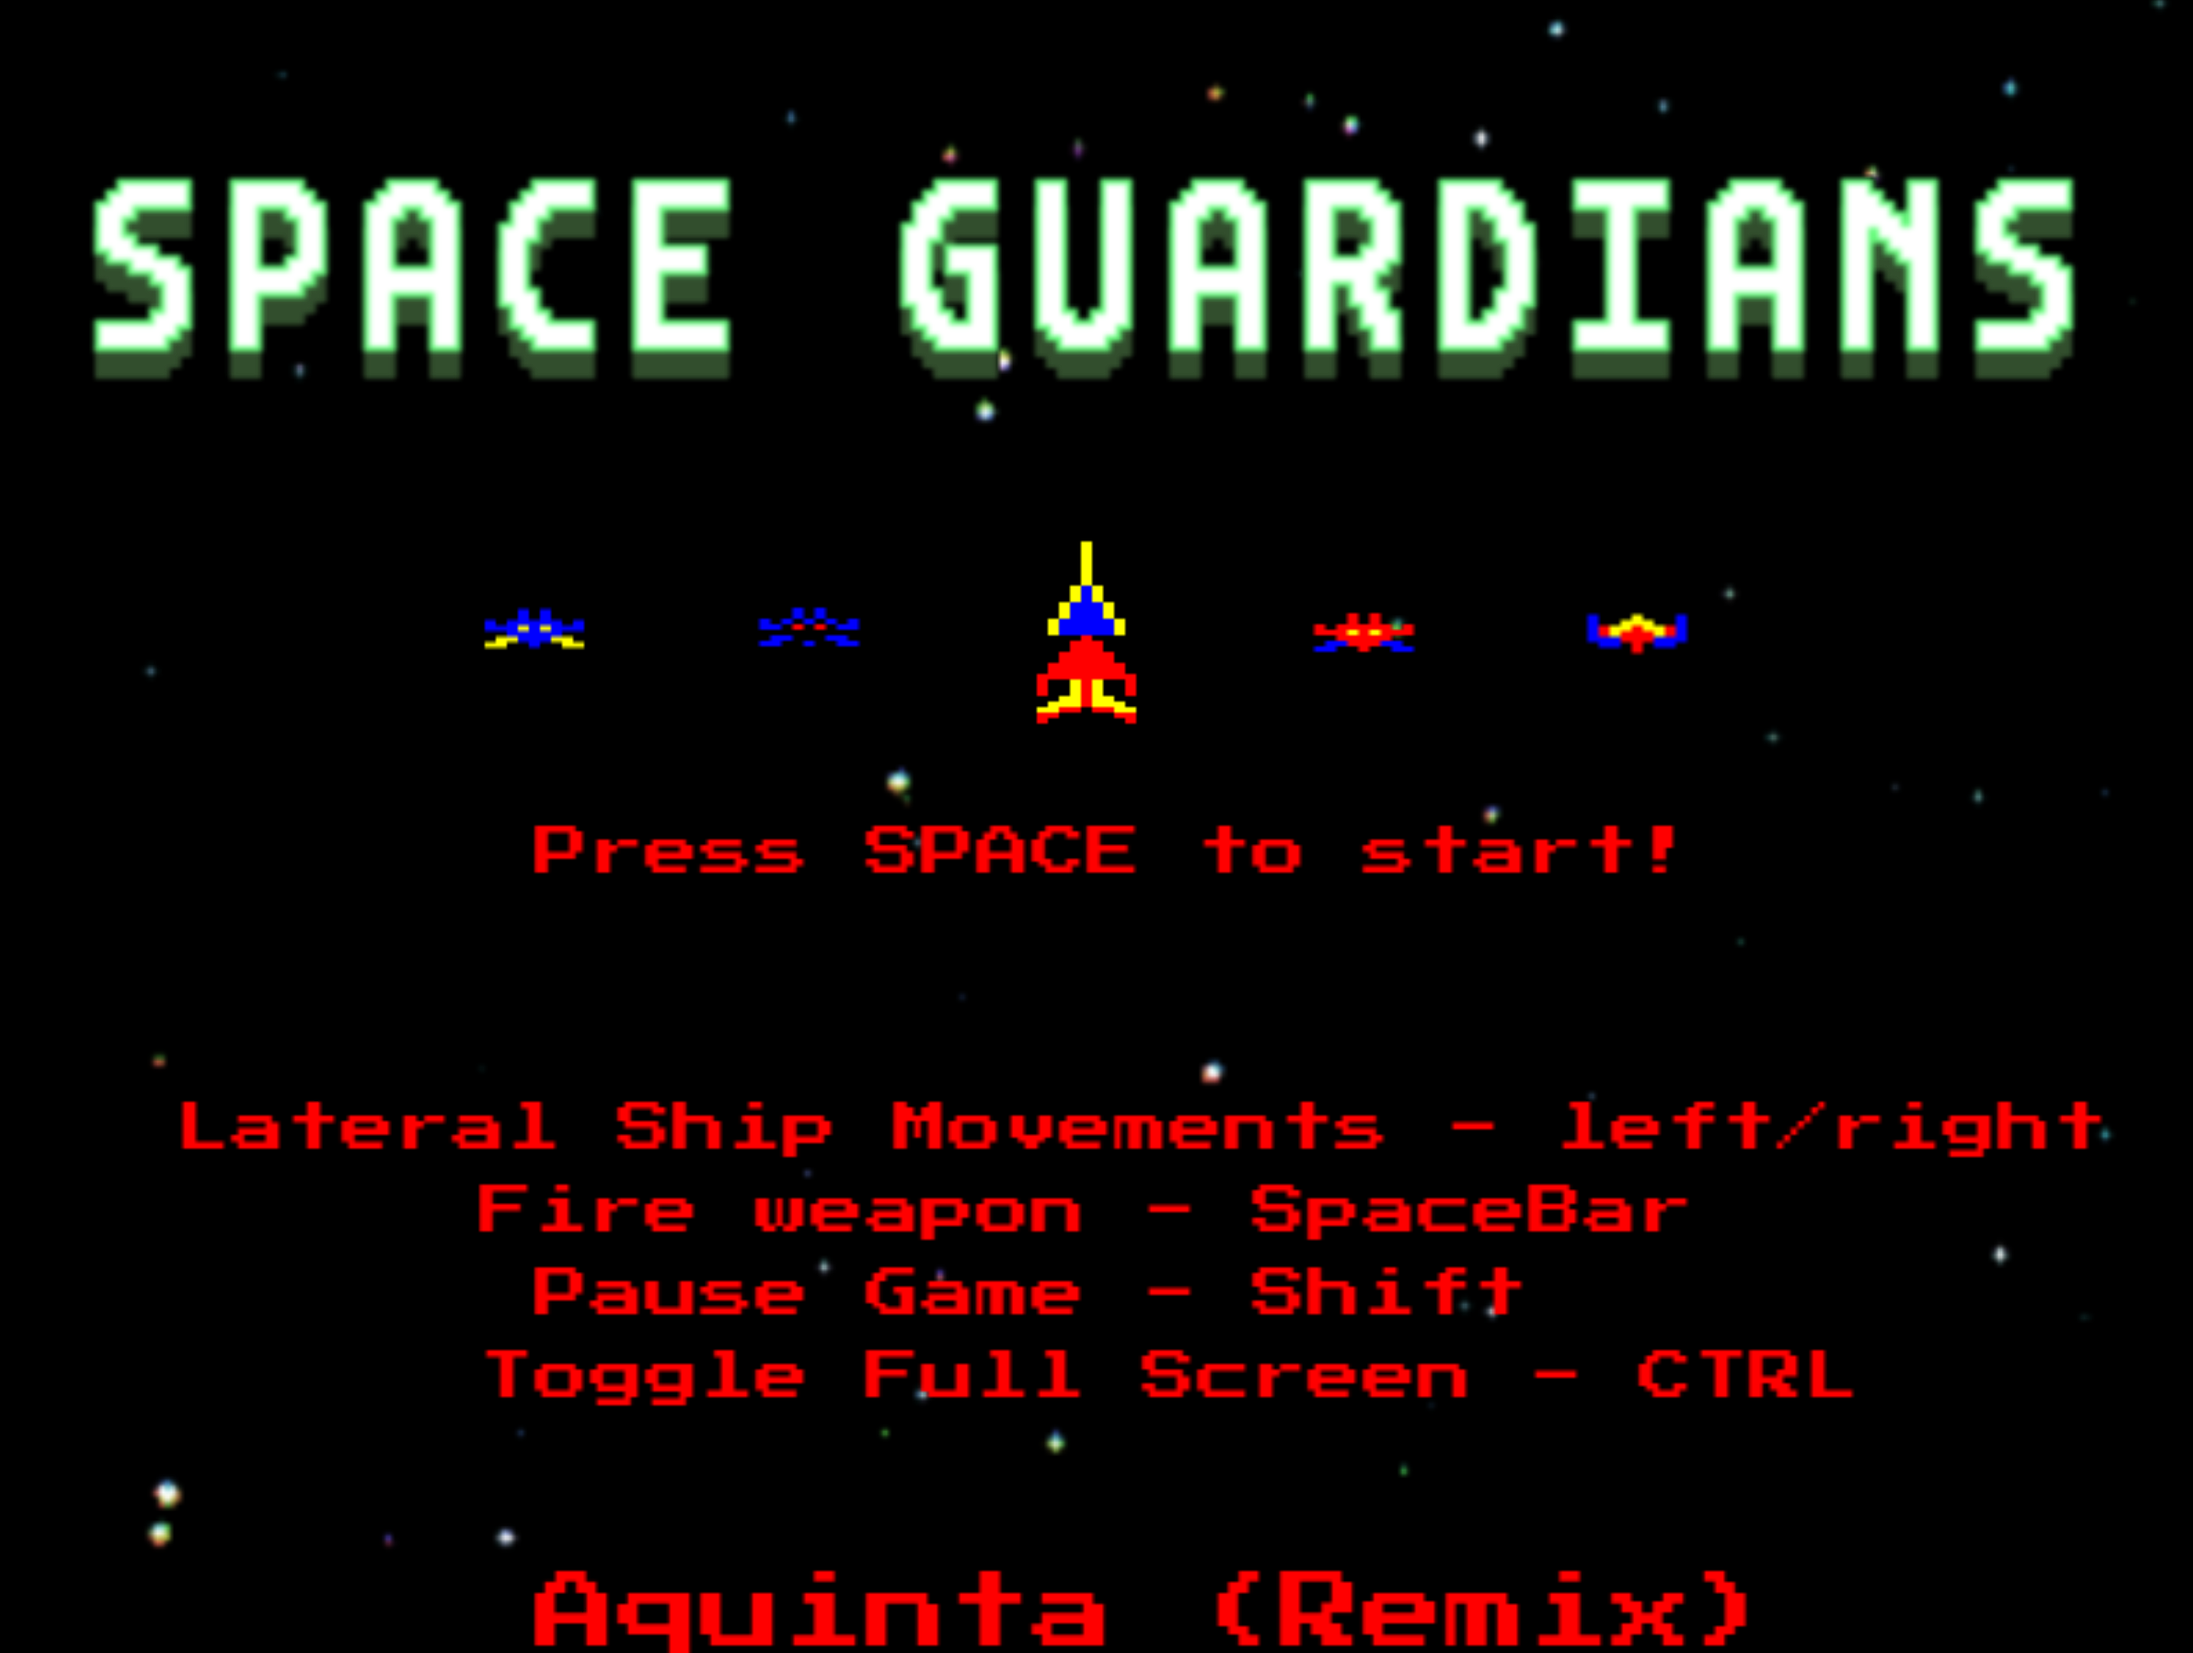
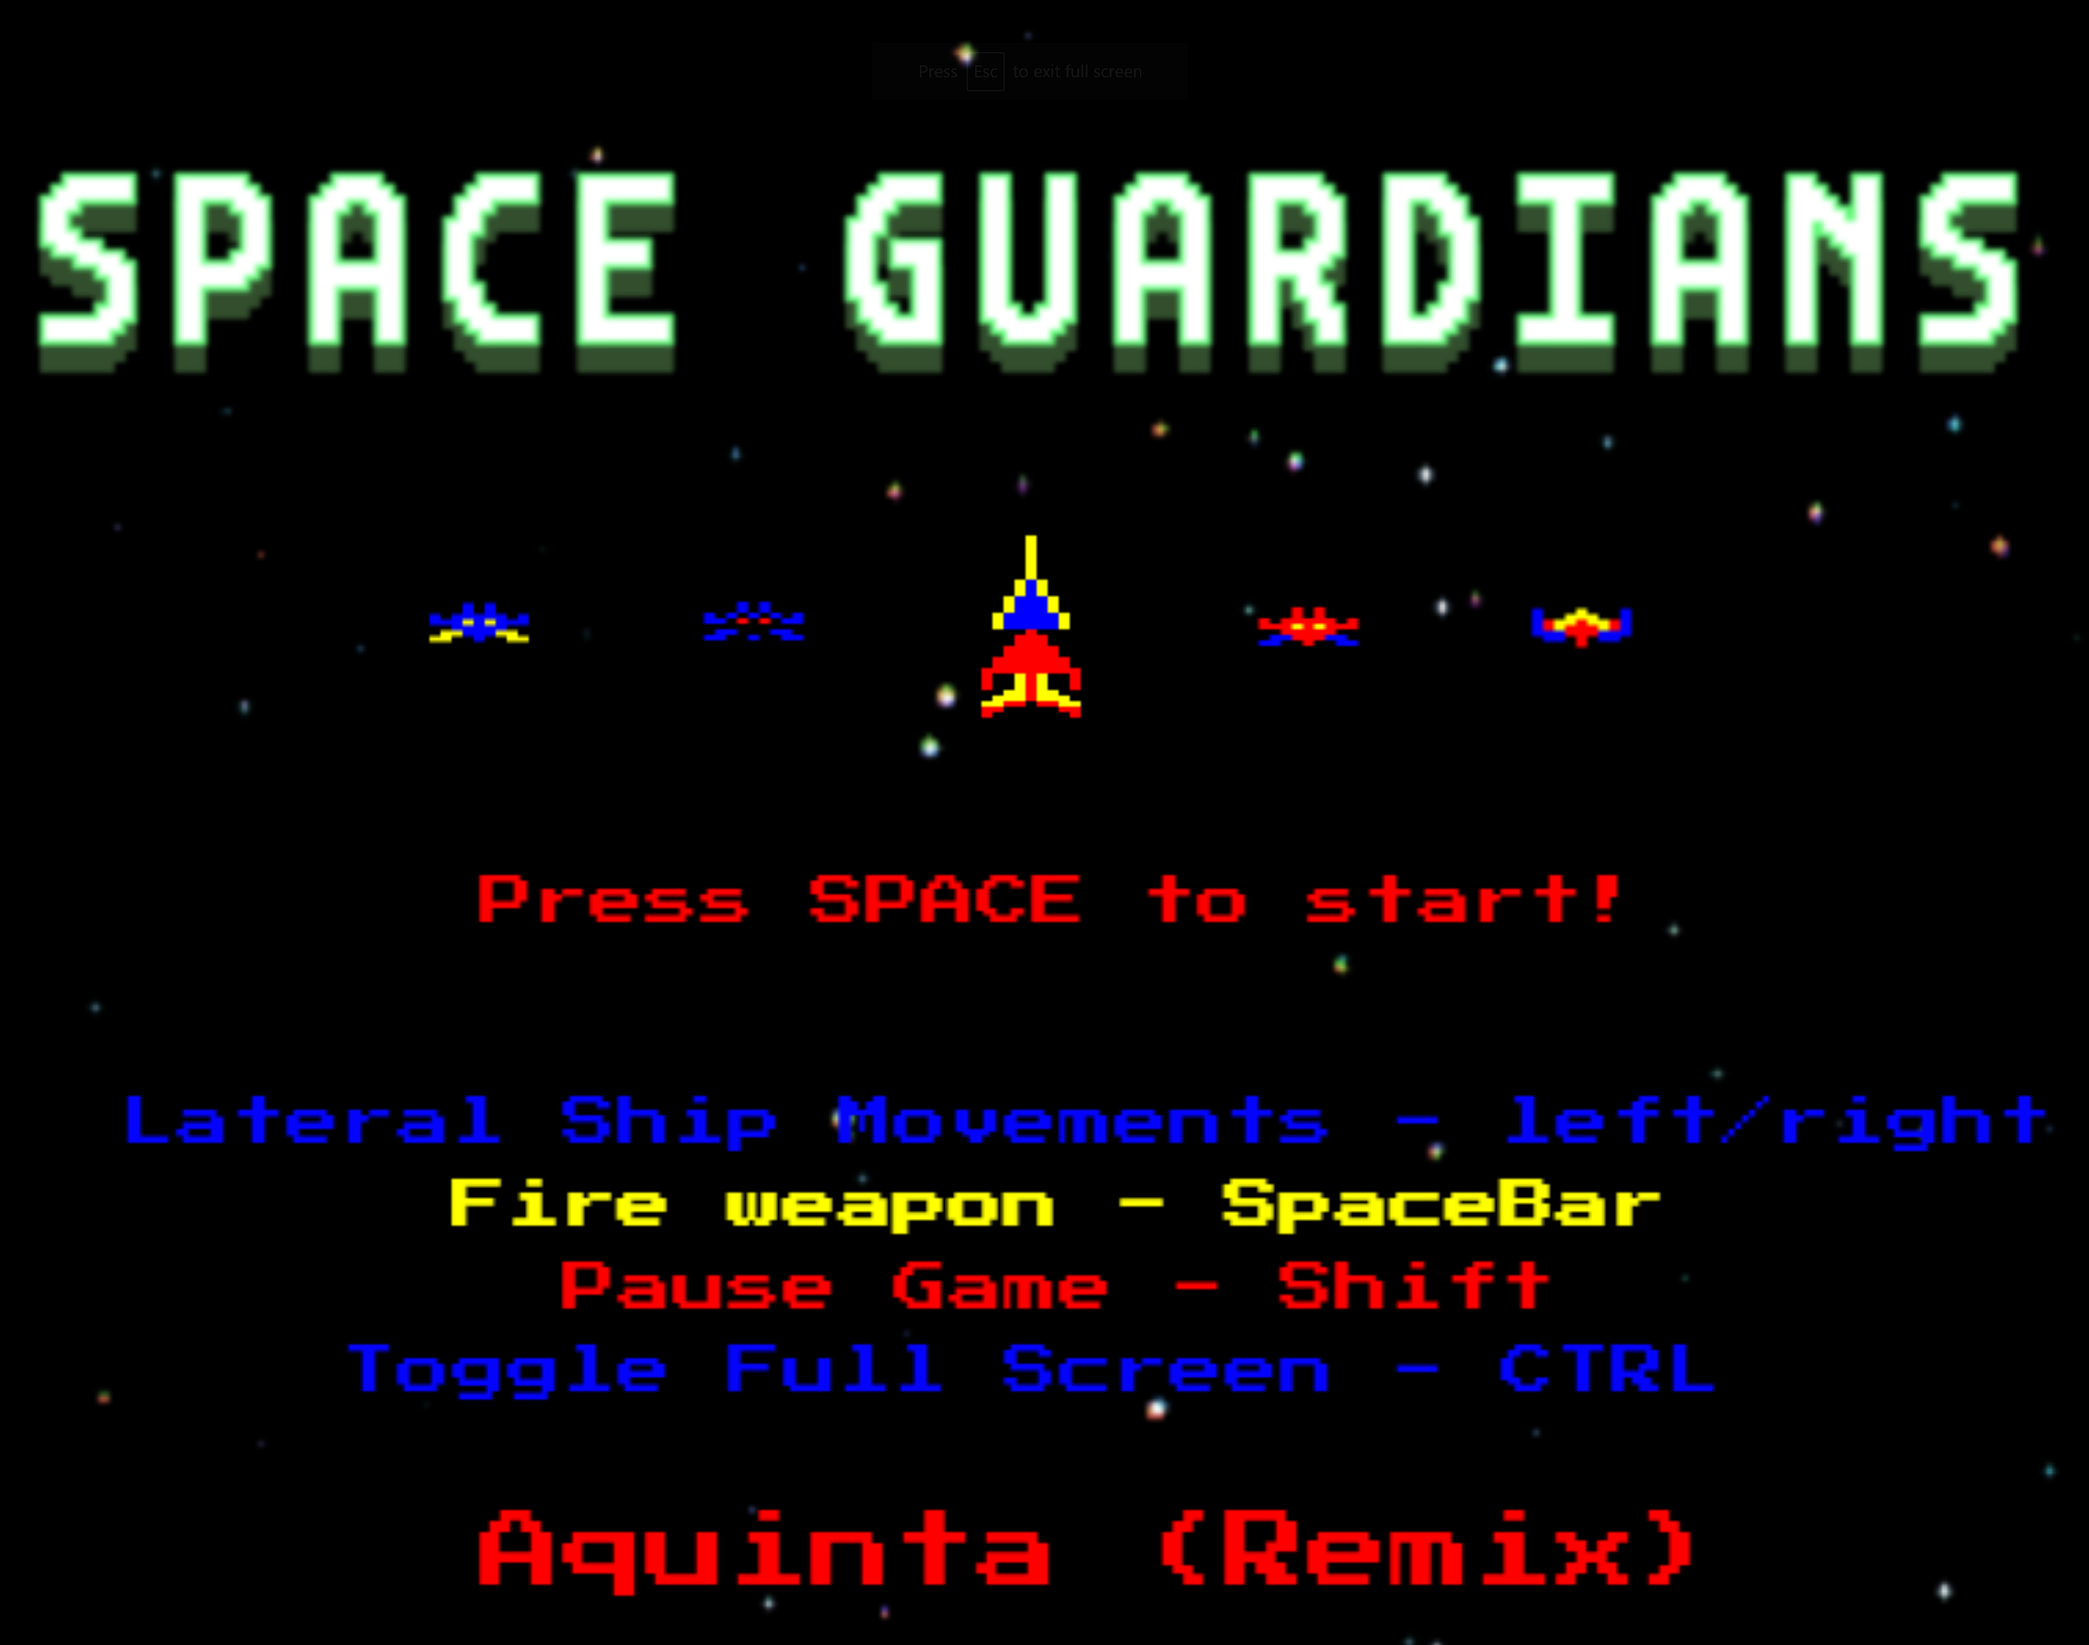
Changed the screenshot in for the readme

diff --git a/src/Scenes/TitleScene.js b/src/Scenes/TitleScene.js
@@ -15,6 +15,19 @@ class TitleScene extends Phaser.Scene {
   }
   
   preload() {
+    const asyncLoader = (loaderPlugin) => new Promise((resolve, reject) => {
+      this.loaderPlugin.on('filecomplete', resolve).on('loaderror', reject);
+      this.loaderPlugin.start();
+  });
+  const loadFont = async () => {  
+  var head  = document.getElementsByTagName('head')[0];
+    var link  = document.createElement('link');
+    link.rel  = 'stylesheet';
+    link.href="https://fonts.googleapis.com/css2?family=Press+Start+2P&display=swap";
+    await asyncLoader (head.appendChild(link));
+}
+  loadFont();
+
     this.load.image("starfield", "./src/assets/stars.png");
     this.load.image('player', './src/assets/player.png')
     this.load.image('blueEnemy', './src/assets/blueEnemy.png')
@@ -23,11 +36,6 @@ class TitleScene extends Phaser.Scene {
     this.load.image('strongestEnemy', './src/assets/strongestEnemy.png')
     this.load.image('title', './src/assets/SG.png');
     this.load.audio('levelEnd', ['./src/assets/level.wav']);
-    var head  = document.getElementsByTagName('head')[0];
-    var link  = document.createElement('link');
-    link.rel  = 'stylesheet';
-    link.href="https://fonts.googleapis.com/css2?family=Press+Start+2P&display=swap";
-    head.appendChild(link);
   }
 
   create() {
